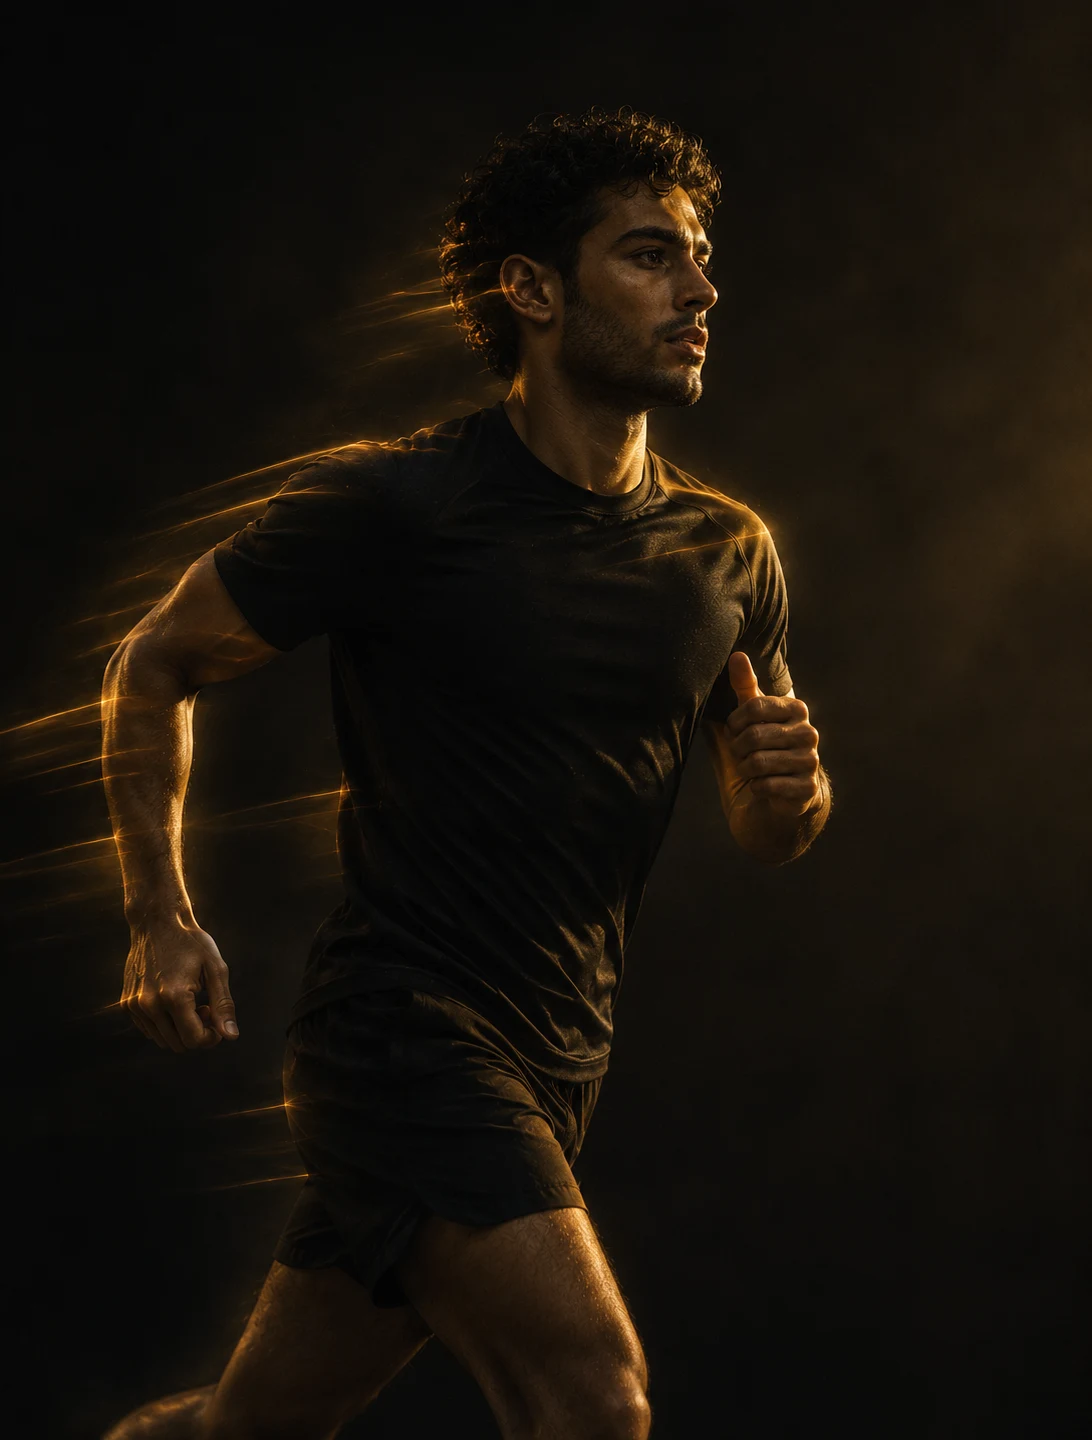
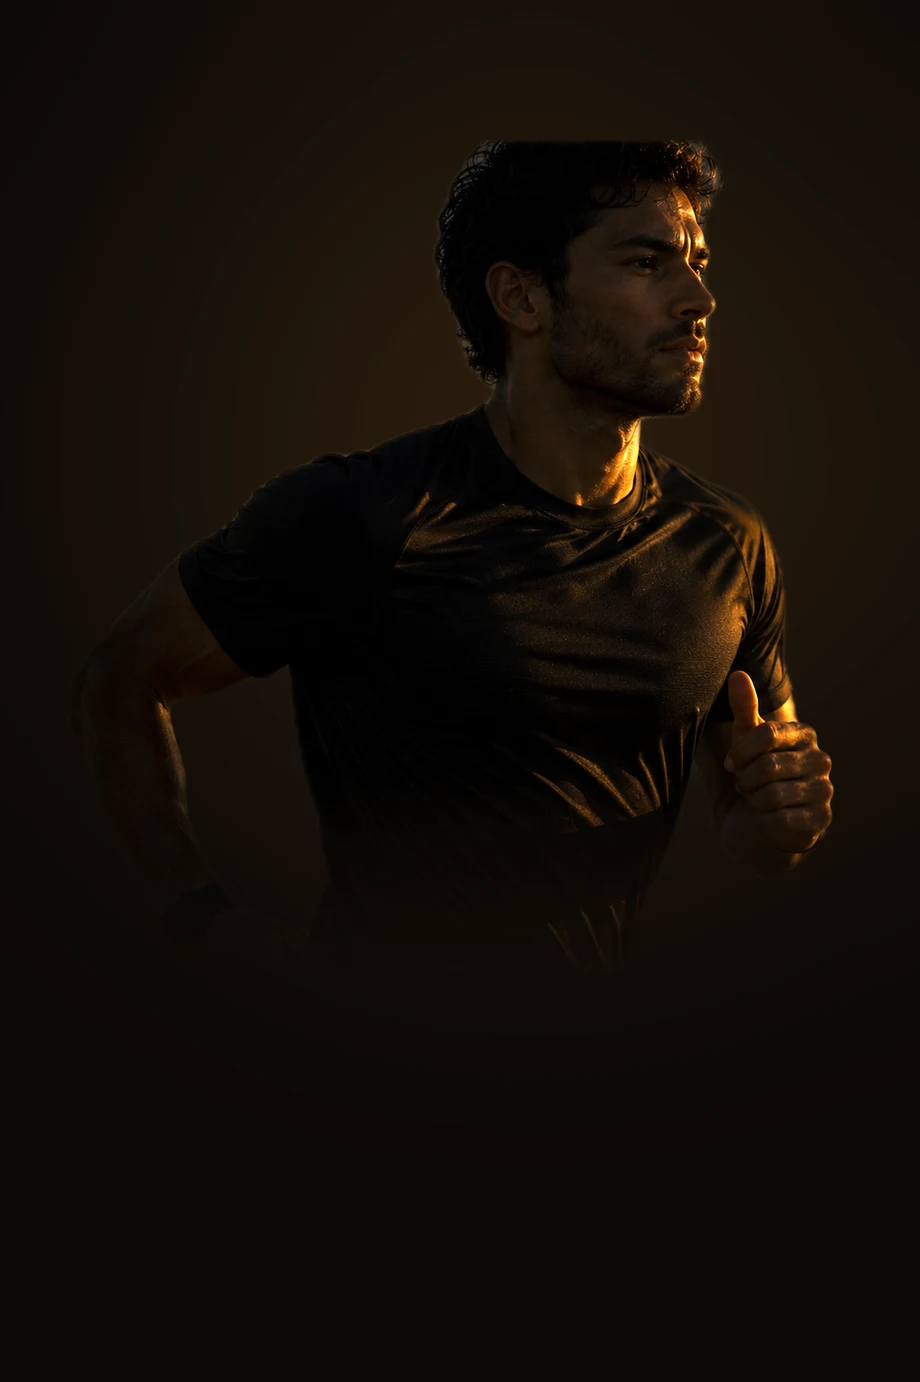
Accountability: photos above text so each activity reads, studio runner; 160px between black sections; How it works step 2 copy; mobile hero fade and sharp rec photo

diff --git a/index.html b/index.html
@@ -82,8 +82,8 @@
 <link rel="preconnect" href="https://fonts.googleapis.com" />
 <link rel="preconnect" href="https://fonts.gstatic.com" crossorigin />
 <link href="https://fonts.googleapis.com/css2?family=JetBrains+Mono:wght@400;500;700&display=swap" rel="stylesheet" />
-<link rel="stylesheet" href="css/tokens.css?v=20261108y" />
-<link rel="stylesheet" href="css/styles.css?v=20261108y" />
+<link rel="stylesheet" href="css/tokens.css?v=20261109c" />
+<link rel="stylesheet" href="css/styles.css?v=20261109c" />
 <script defer src="https://cdn.vercel-insights.com/v1/script.js"></script>
 </head>
 <body>
@@ -225,7 +225,6 @@
     <div class="rec-spread">
       <article class="rec-panel rec-panel--others">
         <picture class="rec-photo" aria-hidden="true">
-          <source media="(max-width: 760px)" srcset="assets/img/rec-others-900.webp" />
           <img src="assets/img/rec-others-1690.webp" alt="" width="1690" height="931" loading="lazy" decoding="async" />
         </picture>
         <div class="rec-copy">
@@ -359,7 +358,7 @@
           <figure class="how-mock"><img src="assets/app/mock-invest.webp" width="600" height="1000" alt="Vest Self profile showing money invested in your best self" loading="lazy" decoding="async" /></figure>
           <div class="how-copy">
             <span class="how-num t-mono-title">02</span>
-            <h3 class="t-sh2">Give your promise<br /> some weight.</h3>
+            <h3 class="t-sh2">Put accountability<br /> behind your promise.</h3>
             <p class="t-body para">Invite an accountability partner, find community, and choose your level of commitment.</p>
           </div>
         </li>
@@ -408,7 +407,7 @@
            tiles, no screenshots. Energy / Discipline / Growth / Focus. -->
       <div class="bento">
         <article class="tile tile--partner nb-card nb-photo" data-tone="energy" data-reveal>
-          <picture class="tile-photo" aria-hidden="true"><source media="(max-width: 760px)" srcset="assets/img/runner-720.webp" /><img src="assets/img/runner-1200.webp" alt="" width="1092" height="1440" loading="lazy" decoding="async" /></picture>
+          <picture class="tile-photo" aria-hidden="true"><source media="(max-width: 760px)" srcset="assets/img/runner-720.webp" /><img src="assets/img/runner-1200.webp" alt="" width="920" height="1382" loading="lazy" decoding="async" /></picture>
           <p class="tile-label t-mono-caption"><svg class="ic" aria-hidden="true"><use href="#i-user-plus"/></svg>Accountability partner</p>
           <div class="tile-foot">
             <h3 class="t-sh2">Your own<br /> accountability partner.</h3>
@@ -571,6 +570,6 @@
     </div>
   </footer>
 
-  <script src="js/app.js?v=20261108y"></script>
+  <script src="js/app.js?v=20261109c"></script>
 </body>
 </html>

diff --git a/css/styles.css b/css/styles.css
@@ -966,3 +966,34 @@ footer { border-top: 0 !important; padding-top: 24px !important; }
   mask-image: radial-gradient(55% 22% at 100% 100%, #000 0%, transparent 100%), radial-gradient(45% 16% at 0% 0%, #000 0%, transparent 100%); }
 /* Stake card sits just under Invest's bottom edge at any screen height (card is 300px wide = 97px tall) */
 @media (min-width: 1024px) { .mode-card--invest { top: 15%; } .mode-card--stake { top: calc(15% + 94px); } }
+/* More air where two black sections meet: 160px content to content on desktop. */
+@media (min-width: 1024px) {
+  .formula { padding-top: 40px; }
+  .system { padding-top: 160px; }
+  .money-section { padding-top: 100px; padding-bottom: 160px; }
+  .community { padding-top: 160px; }
+}
+@media (min-width: 1024px) { .money-section { padding-bottom: 110px; } }
+/* Accountability photos fill the card (no zoom), so each activity reads. */
+.tile .tile-photo img { transform: none !important; object-position: center top; }
+.tile--streak .tile-photo img { object-position: center 30%; }
+.tile--stakes .tile-photo img { object-position: 60% 40%; }
+/* Photo on top, text below on black: the whole scene (face and activity) shows. */
+.tile.nb-photo { padding: 0; min-height: 0; justify-content: flex-start; }
+.tile.nb-photo .tile-photo { position: relative; inset: auto; z-index: -2; height: clamp(330px, 42vh, 390px);
+  -webkit-mask-image: linear-gradient(180deg, #000 72%, transparent 100%); mask-image: linear-gradient(180deg, #000 72%, transparent 100%); }
+.tile.nb-photo .tile-photo img { object-position: center 78%; }
+.tile.nb-photo .tile-photo::after { background: linear-gradient(180deg, rgba(0,0,0,0.6) 0%, rgba(0,0,0,0) 22%); }
+.tile.nb-photo .tile-label { position: absolute; top: 24px; left: 24px; z-index: 1; }
+.tile.nb-photo .tile-foot { padding: 0 24px 24px; margin-top: -28px; }
+.tile--partner .tile-photo img { object-position: center 40%; }
+.tile--community .tile-photo img { object-position: center 30%; }
+.tile--partner .tile-photo img { object-position: center 0%; }
+/* Mobile: hero ends in a soft fade, not a hard line. */
+@media (max-width: 760px) {
+  .hero { position: relative; }
+  .hero::after { content: ""; position: absolute; left: 0; right: 0; bottom: 0; height: 160px; z-index: 3; pointer-events: none; background: linear-gradient(180deg, rgba(0,0,0,0) 0%, #000 100%); }
+  /* "You show up": sharp full-size photo, no enlargement, her whole face in frame */
+  .rec-panel--others .rec-photo img { transform: none !important; object-position: 62% 20%; }
+  .rec-photo { width: 100%; height: 78%; }
+}
